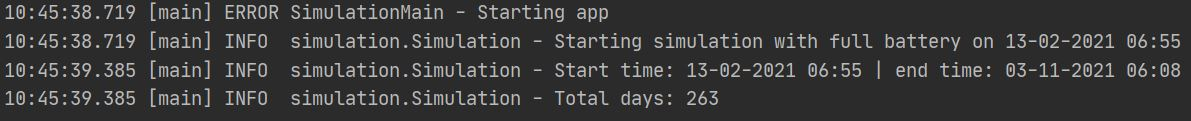
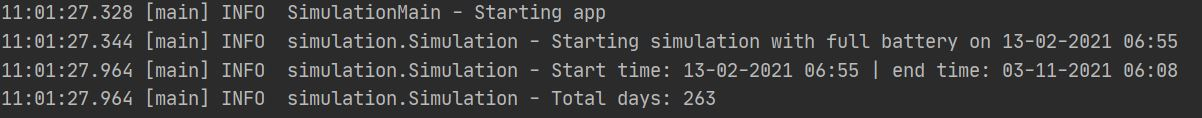
I have updated console screenshot

diff --git a/src/main/java/SimulationMain.java b/src/main/java/SimulationMain.java
@@ -8,7 +8,7 @@ public class SimulationMain {
     private static final Logger log = LoggerFactory.getLogger(SimulationMain.class);
 
     public static void main(String[] args) {
-        log.error("Starting app");
+        log.info("Starting app");
 
         Simulation simulation = new Simulation();
         simulation.getNumberOfDaysOnBatteryStartingBy(2021, 2, 13, new HardwareParams(), 1, 52, 21);
